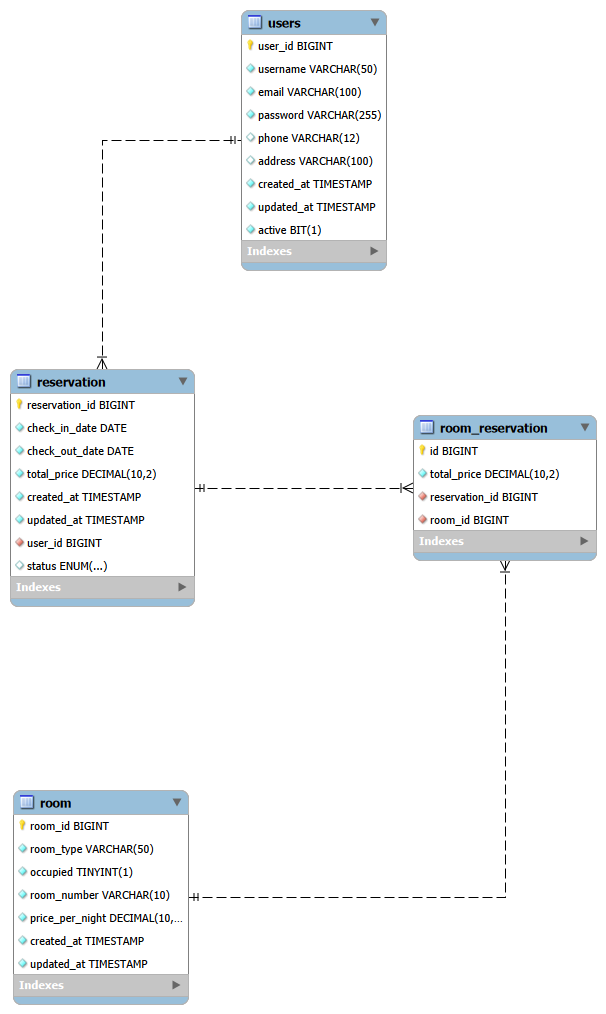
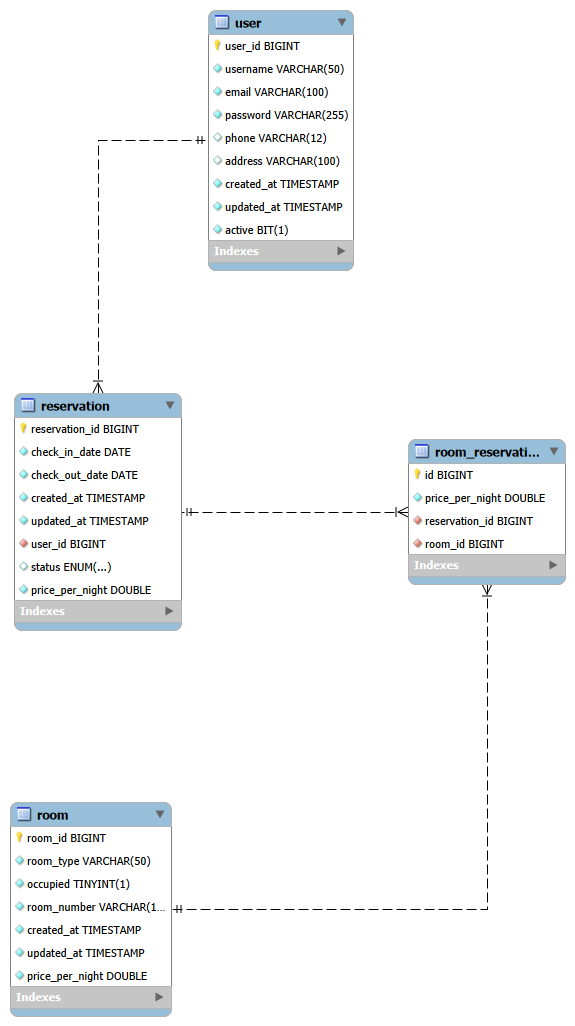
Added Role enum

diff --git a/src/main/java/com/example/hotelmanagementsystem/entity/Role.java b/src/main/java/com/example/hotelmanagementsystem/entity/Role.java
@@ -1,0 +1,6 @@
+package com.example.hotelmanagementsystem.entity;
+
+public enum Role {
+    ROLE_USER,
+    ROLE_ADMIN
+}
